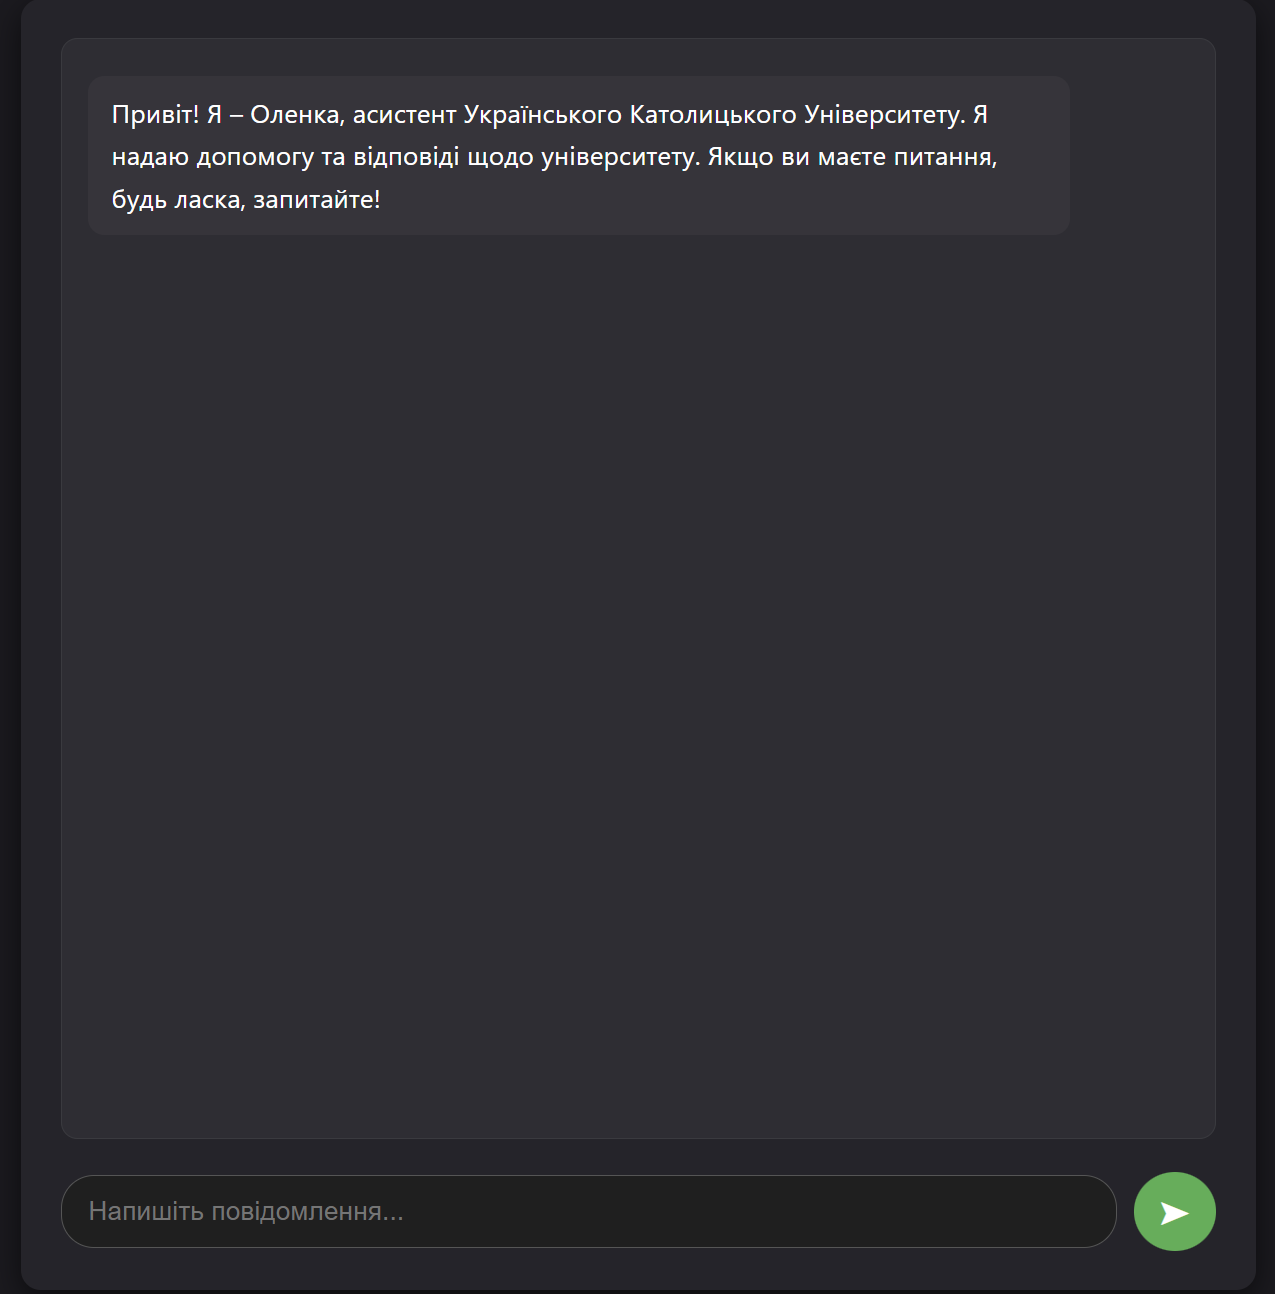
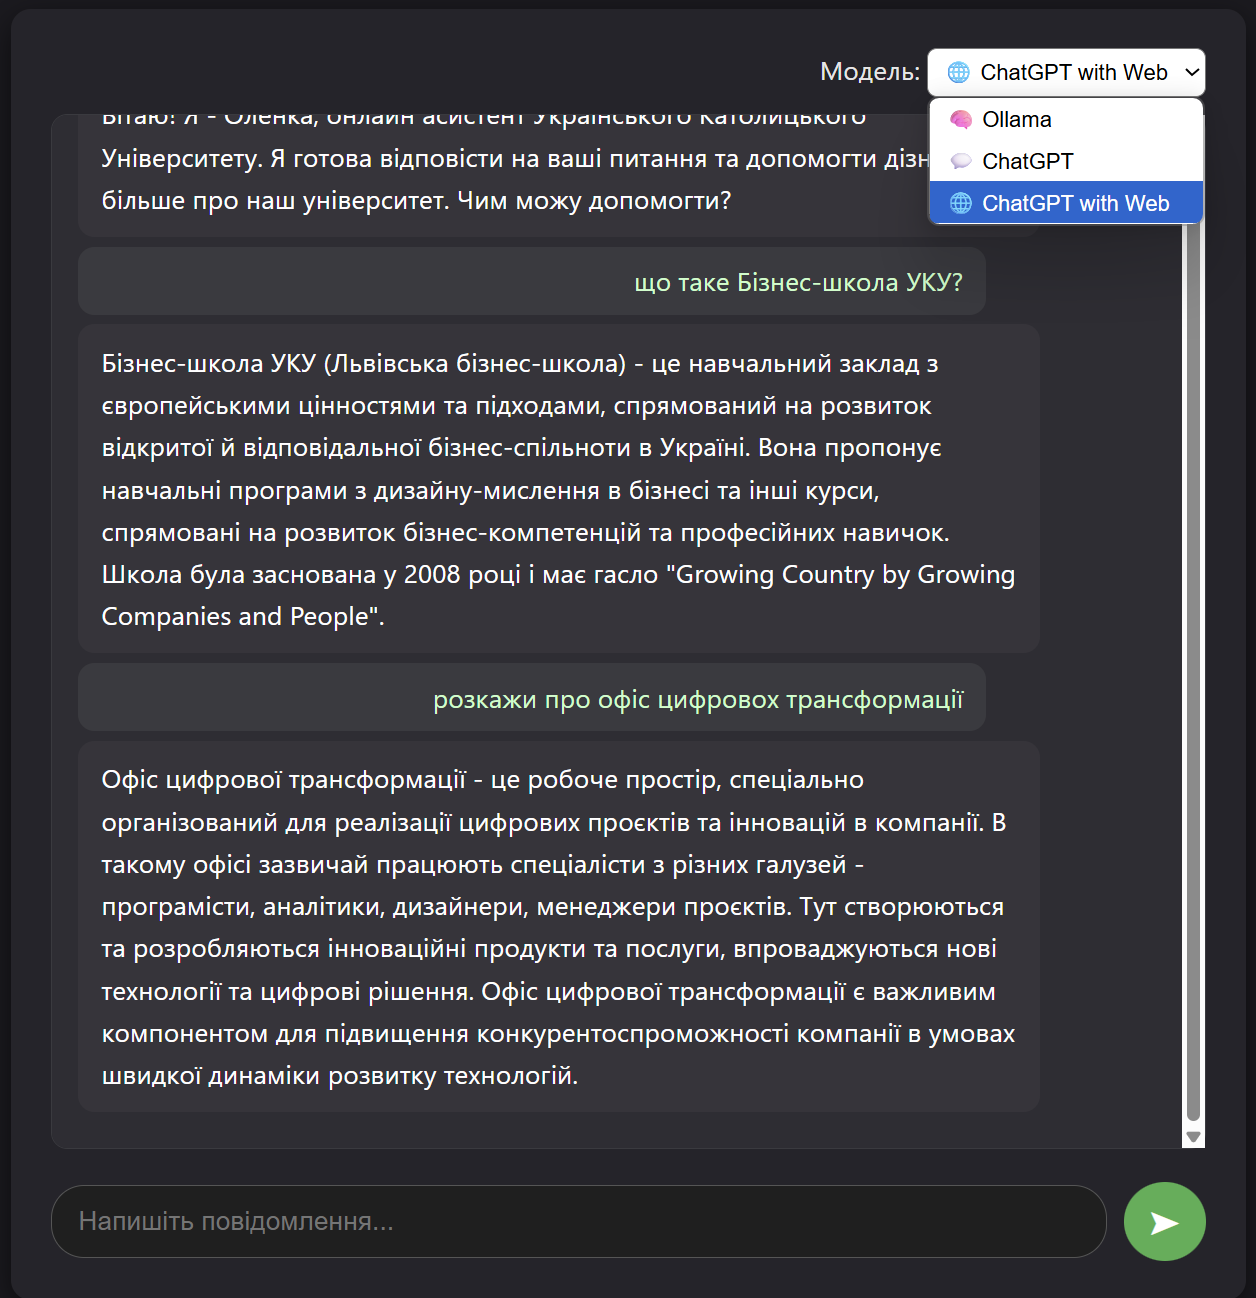
commit

diff --git a/README.md b/README.md
@@ -1,53 +1,59 @@
 # 🤖 ChatBot Project — AI Асистент для Університету
 
-Цей проєкт — інтелектуальний чат-бот, розроблений на базі **FastAPI**, **Ollama** та **LLM-моделей** (наприклад, Mistral, Phi), з підтримкою локального контексту, вбудованим пошуком по знаннях, стримінгом відповідей і сучасним інтерфейсом у стилі Microsoft Teams / iOS.
+Цей проєкт — розумний чат-бот для університету, побудований на основі **FastAPI**, **Ollama**, **OpenAI**, з підтримкою RAG-підходу, веб-пошуку, стримінгу відповідей та ведення історії сесій.
 
-## 🔧 Основні функції
+---
 
-- 🔍 **Пошук по контексту**: бот читає файл `university_texts.txt` і шукає релевантну інформацію за допомогою FAISS та SentenceTransformer.
-- 🧠 **LLM інтеграція**: Mistral, Phi, або інші моделі, що працюють через Ollama.
-- 🧵 **Streaming-відповіді**: відповіді надходять у режимі реального часу.
-- 🎨 **Сучасний UI**: адаптивний дизайн, темна тема, ефекти "typing", стилізовані повідомлення, авто-прокрутка.
-- 🔐 **Оптимізація prompt’ів**: враховано обмеження в 2048 токенів, стискання контексту.
-- ☁ **Розгортання на Azure VM** або запуск локально.
+## 🚀 Основні можливості
 
-## ⚙ Структура проєкту
+- 🧠 **LLM-підтримка**: 
+  - `🧠 Ollama` — локальні моделі (Mistral, Phi тощо)
+  - `💬 ChatGPT` — OpenAI з локальним контекстом (RAG)
+  - `🌐 ChatGPT with Web` — OpenAI з живим пошуком по сайтах
+- 🔎 **RAG-пошук по контексту**: FAISS + Sentence Transformers
+- 🌍 **Веб-пошук (Google Custom Search)** для зовнішніх запитів
+- 🧵 **Streaming-відповіді**: live-стрім тексту
+- 🕒 **Сесії користувача**: автоматичне ведення однієї активної сесії на кожну модель
+- 💬 **CRM інтеграція**: створення тікетів при запитах
+- 🎨 **Сучасний UI**: стиль Microsoft Teams / iOS, темна тема
+
+---
+
+## 🗂 Структура проєкту
 
 ```
 chatbot_project/
 ├── app/
-│   ├── ollama_client.py      # Клас для взаємодії з Ollama та обробки контексту
-│   ├── static/               # CSS / JS / assets
-│   └── templates/            # HTML-шаблони (Jinja2)
-├── documents/university_texts.txt  # Твій текстовий контекст
-├── main.py                   # FastAPI логіка
-├── .env                      # Налаштування середовища
-├── Dockerfile                # FastAPI Docker
-├── docker-compose.yml        # FastAPI + Ollama
-├── requirements.txt          # Python залежності
+│   ├── LLM/                     # LLM-клієнти: Ollama, ChatGPT, ChatGPTWeb
+│   ├── sessionDB/               # SQLAlchemy моделі та сесійна логіка
+│   ├── utils/                   # RAG, prompt builder, streaming, web search
+│   ├── templates/               # HTML шаблони
+│   ├── static/                  # CSS, JS, іконки
+├── documents/                   # Файли для RAG
+├── .env.example                 # Приклад налаштувань
+├── requirements.txt             # Python залежності
+├── Dockerfile                   # Docker інструкція
+├── docker-compose.yml           # FastAPI + Ollama
+├── main.py                      # Основна FastAPI логіка
 ```
 
-## 🚀 Швидкий старт
+---
 
-1. Встанови [Docker](https://www.docker.com/products/docker-desktop)
+## ⚙ Встановлення
 
-2. Клонуй проєкт:
+### 🧰 1. Клонування та налаштування
 
 ```bash
 git clone https://github.com/pro100ham/chatbot_project.git
 cd chatbot_project
+cp .env.example .env
 ```
 
-3. Створи `.env`:
+🔒 Вкажи свій OpenAI ключ у `.env`.
 
-```env
-MODEL_NAME=mistral
-ACTIVE_ENV=local
-LOCAL_OLLAMA_URL=http://host.docker.internal:11434
-DOCKER_OLLAMA_URL=http://ollama:11434
-```
+---
 
-4. Запуск:
+### 🐋 2. Запуск через Docker
 
 ```bash
 docker-compose up --build
@@ -58,63 +64,67 @@ docker-compose up --build
 
 ---
 
-## ☁ Розгортання на Azure VM
-
-1. Підключись:
+### ☁ 3. Розгортання на Azure VM
 
 ```bash
+# Підключення
 ssh -i your_key.pem azureuser@<your-vm-ip>
-```
 
-2. Встанови Docker:
-
-```bash
+# Docker
 sudo apt update
 sudo apt install -y docker.io docker-compose
 sudo usermod -aG docker $USER
-```
 
-3. Скопіюй проєкт і запусти:
-
-```bash
+# Проєкт
 scp -r -i your_key.pem ./chatbot_project azureuser@<your-vm-ip>:~
 cd chatbot_project
 docker-compose up --build -d
 ```
 
-📍 Перевір: `http://<your-vm-ip>:8000`
-
 ---
 
-## 🧠 Моделі Ollama
+## 🧠 .env приклад
 
-У контейнері `ollama` автоматично завантажується модель із `.env`, напр.:
+```dotenv
+# LLM
+MODEL_NAME=mistral
+OPENAI_API_KEY=your_openai_key_here
+OPENAI_MODEL=gpt-3.5-turbo
 
-```yaml
-command: >
-  sh -c "ollama pull mistral && ollama serve"
+# URLs
+LOCAL_OLLAMA_URL=http://host.docker.internal:11434
+DOCKER_OLLAMA_URL=http://ollama:11434
+
+# Google Search API (опційно для ChatGPT with Web)
+GOOGLE_API_KEY=your_google_api_key
+GOOGLE_CX=your_custom_search_engine_id
 ```
 
-Або змінюй її:
+---
 
-```bash
-curl http://localhost:11434/api/pull -d '{"name": "phi"}'
-```
+## 🧪 UI Можливості
+
+- 🔄 Перемикання LLM: Ollama, ChatGPT, ChatGPT+Web
+- 🟢 Стрімінг відповідей
+- ✨ Відображення форм для тікетів
+- 📱 Мобільна адаптація
 
 ---
 
-## ✨ UI Preview
+## 🔐 Безпека
 
-![Chat Preview](app/static/img/chat_preview.png)
+- `.env` додано до `.gitignore`
+- Використання `.env.example` замість справжніх ключів
+- Секрети не зберігаються в історії Git
 
 ---
 
-## 🔜 Плани
+## 🔮 Майбутнє
 
-- [ ] Авторизація
-- [ ] Адмін-панель
-- [ ] Інтеграція з базою даних
-- [ ] Підтримка PDF / CSV / API як джерела знань
+- [ ] Авторизація користувачів
+- [ ] Розширений адмін-інтерфейс
+- [ ] Підтримка PDF/CSV/API в якості джерел RAG
+- [ ] Автоматичне завершення сесій по неактивності
 
 ---
 
